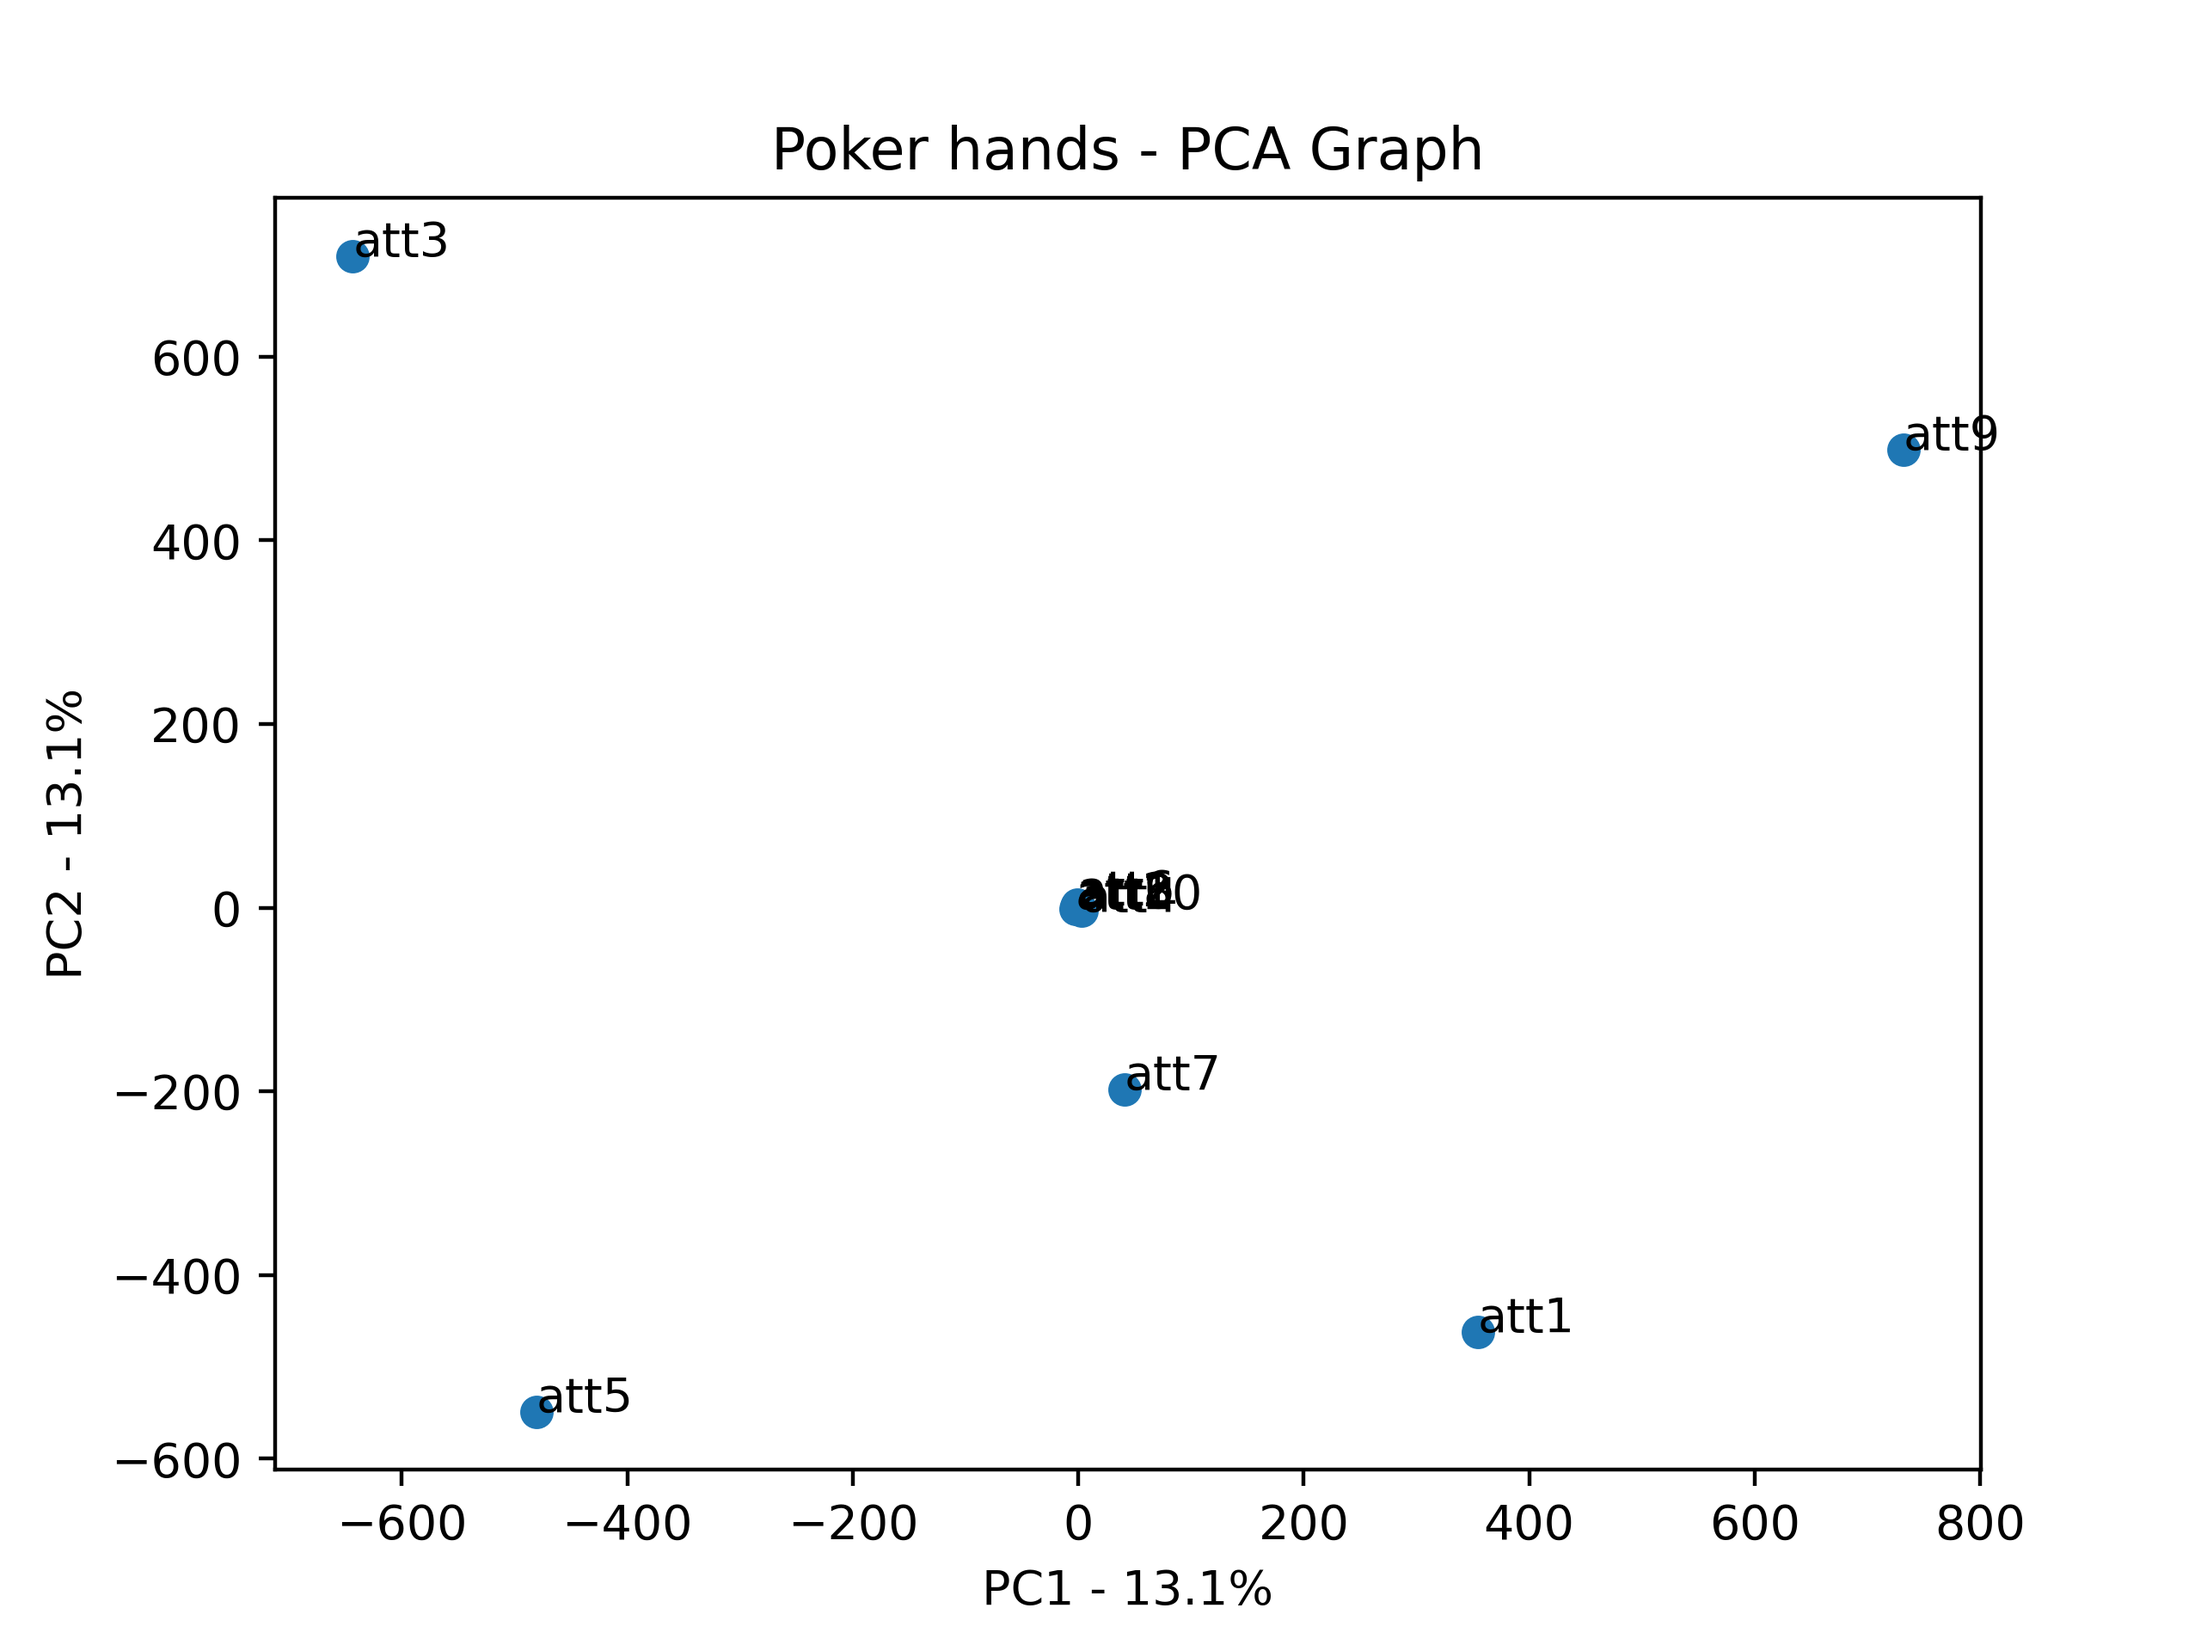
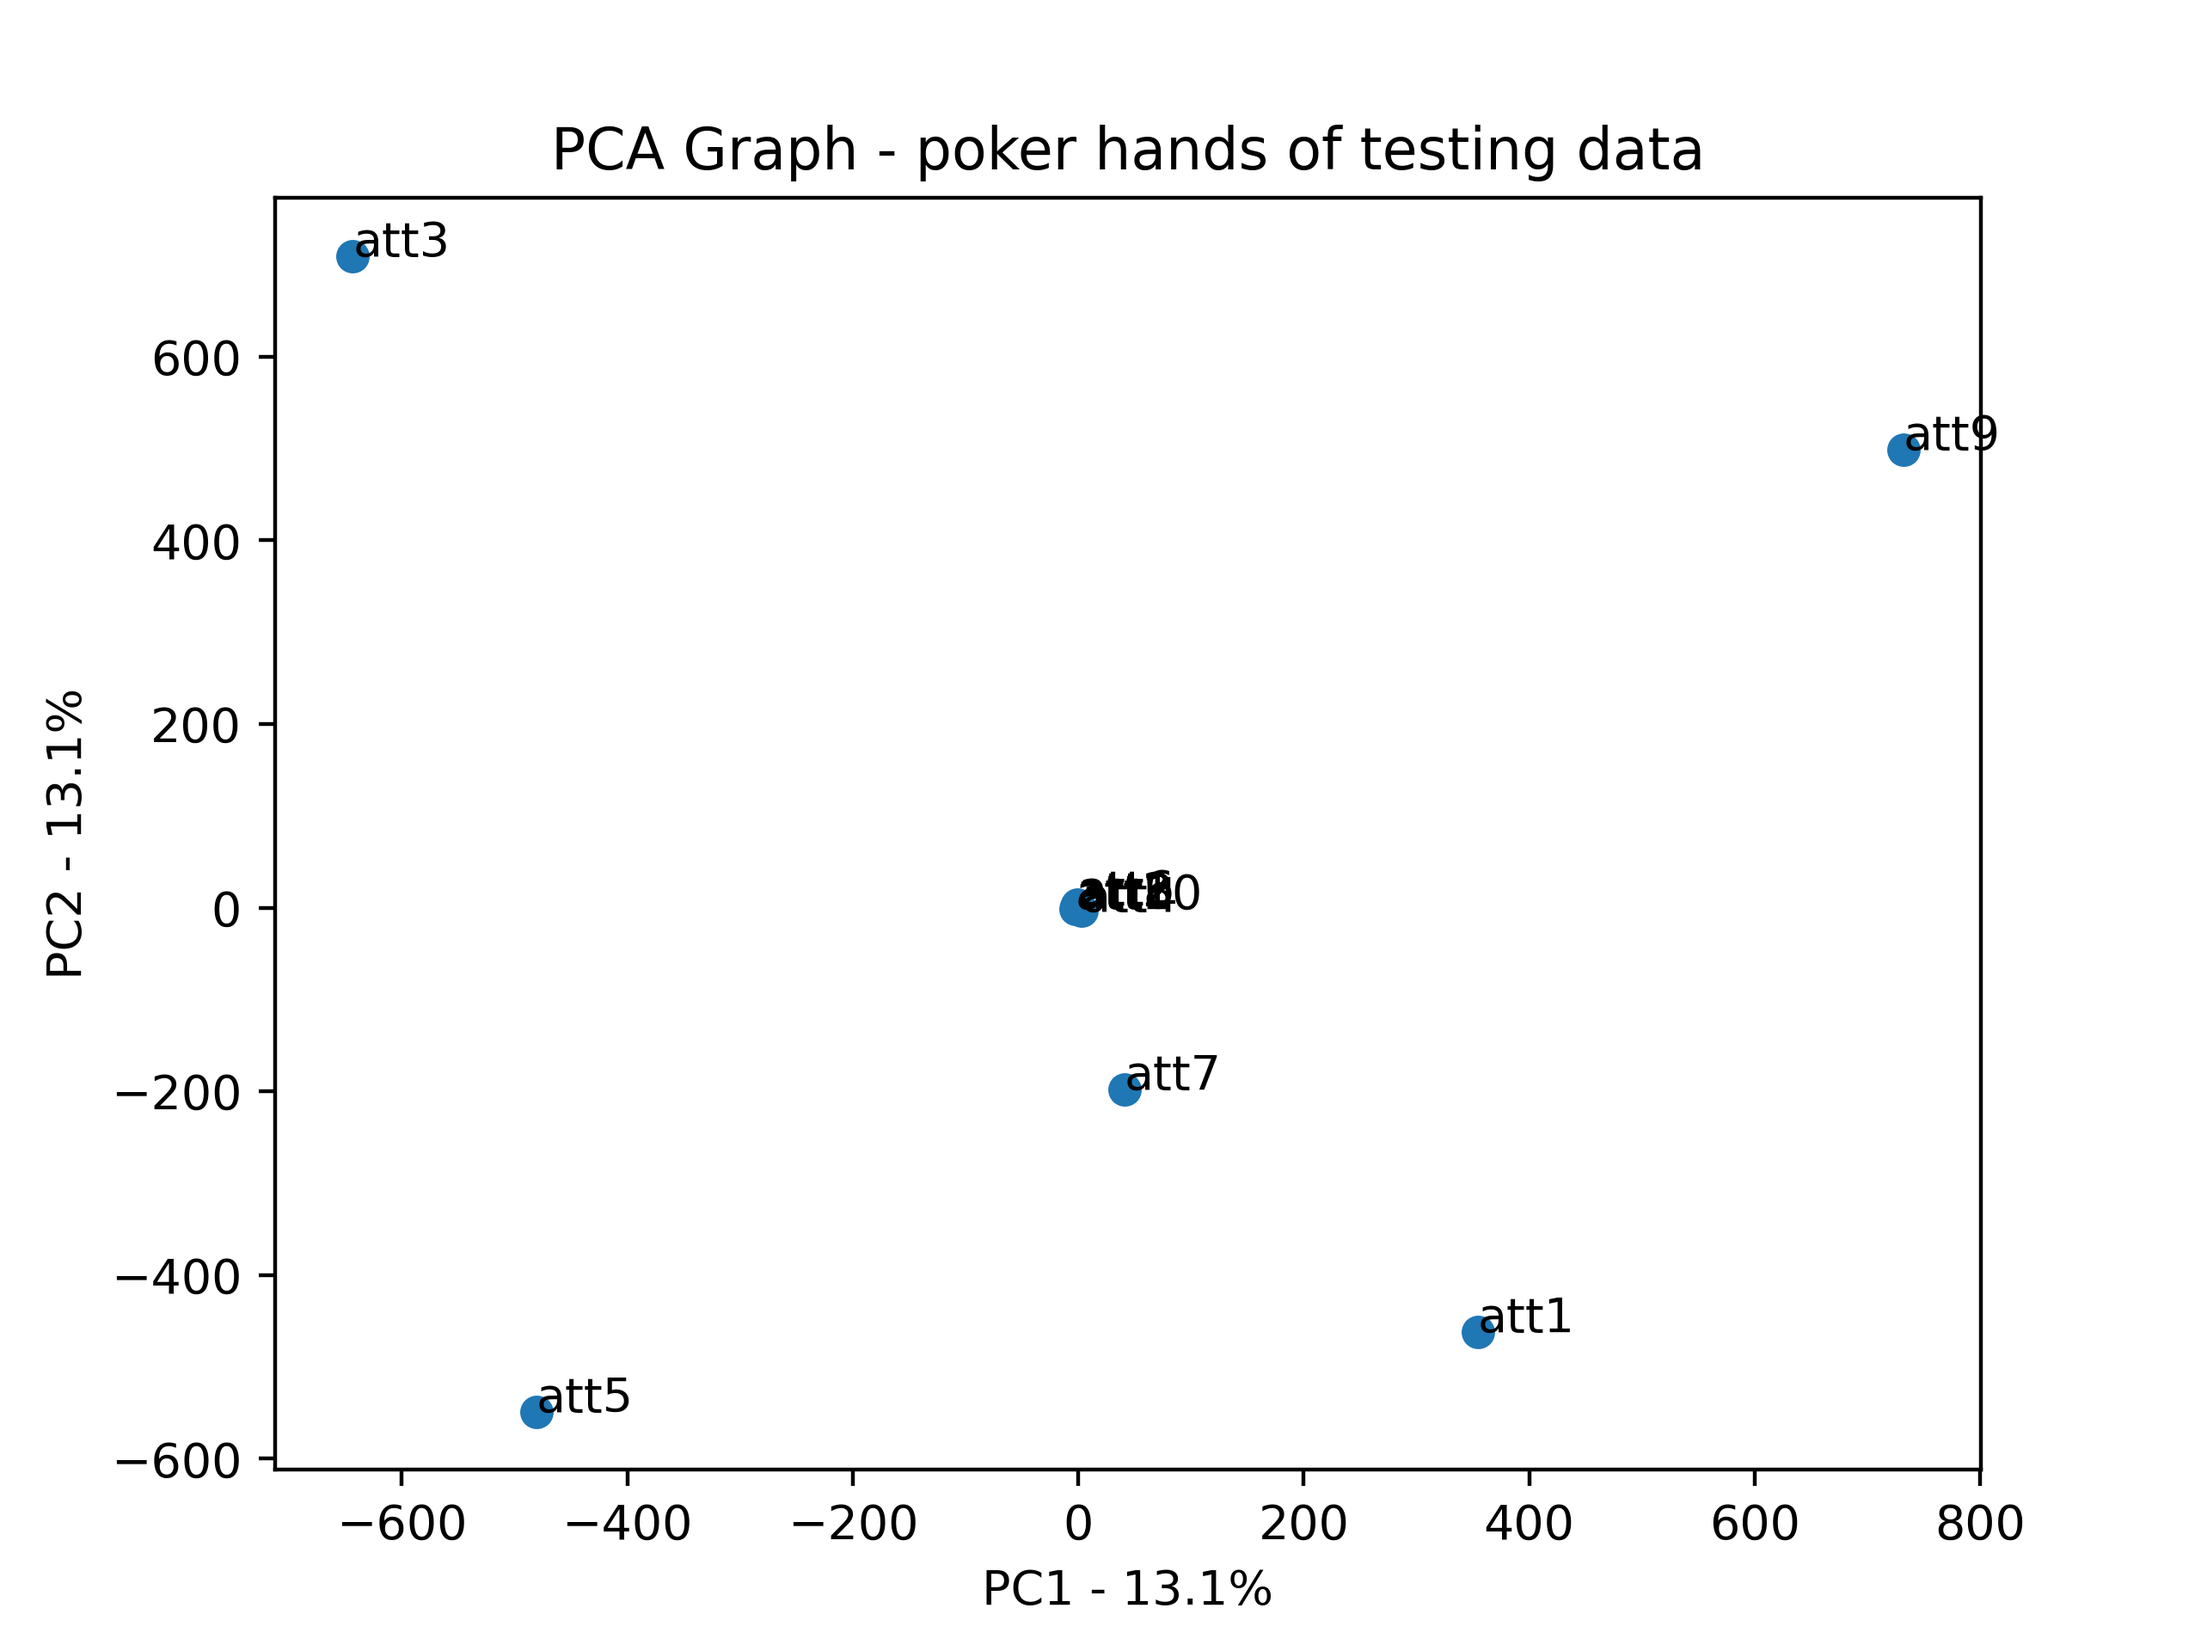
Changes plots titles

Changed region(s): [[0.25, 0.0625, 0.7812, 0.125]]

diff --git a/src/Pca.py b/src/Pca.py
@@ -38,14 +38,14 @@ def pcaFunction(data_matrix, scree_plot_path, pca_plot_path):
     plt.bar(x=range(1, len(per_var) + 1), height=per_var, tick_label=labels)
     plt.ylabel('Percentage of Explained Variance')
     plt.xlabel('Principal Component')
-    plt.title('Scree Plot - attributes of poker hands')
+    plt.title('Scree Plot - attributes of poker hands of testing data')
     plt.savefig(scree_plot_path, dpi=400)
     plt.show()
 
     pca_df = pd.DataFrame(pca_data, index=[*att], columns=labels)
 
     plt.scatter(pca_df.PC1, pca_df.PC2)
-    plt.title('Poker hands - PCA Graph')
+    plt.title('PCA Graph - poker hands of testing data')
     plt.xlabel('PC1 - {0}%'.format(per_var[0]))
     plt.ylabel('PC2 - {0}%'.format(per_var[1]))
 

diff --git a/src/App.py b/src/App.py
@@ -1,4 +1,3 @@
-from sklearn.ensemble import RandomForestClassifier
 from src.DataParser import DataParser, normalize_x_data, normalize_y_data
 from src.DataPlotter import plot_data, plot_missing_data
 from src.Pca import pcaFunction
